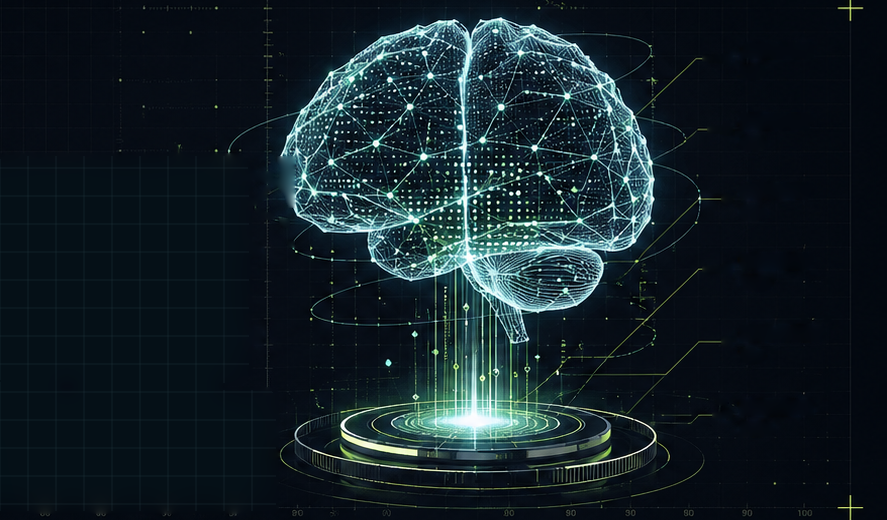
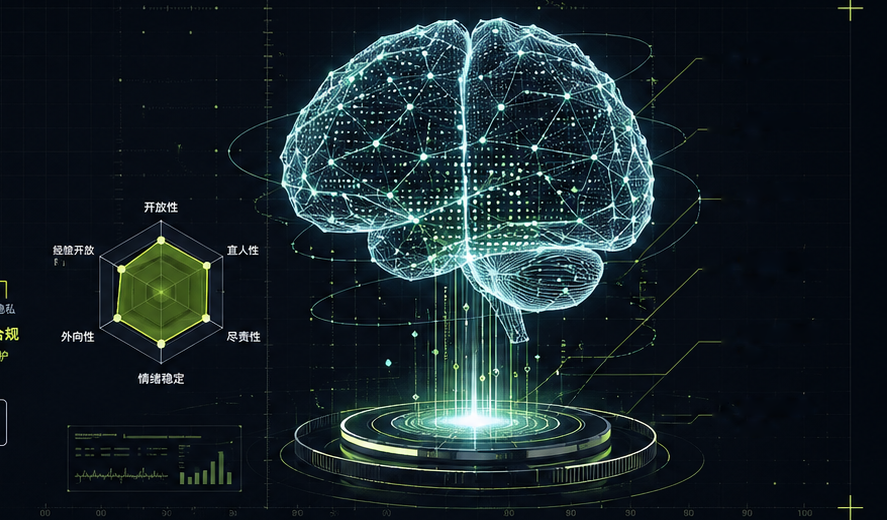
fix(ux): restore original homepage HUD left artwork

diff --git a/components/marketing/home/HeroHudArtwork.tsx b/components/marketing/home/HeroHudArtwork.tsx
@@ -43,13 +43,13 @@ export function HeroHudArtwork({ locale }: { locale: Locale }) {
       className="pointer-events-none relative ml-6 mt-[7px] hidden aspect-[887/520] w-[calc(100%+0.625rem)] self-start overflow-visible [mask-image:linear-gradient(to_bottom,transparent_0%,rgba(0,0,0,0.5)_4%,black_10%,black_88%,rgba(0,0,0,0.5)_96%,transparent_100%)] [-webkit-mask-image:linear-gradient(to_bottom,transparent_0%,rgba(0,0,0,0.5)_4%,black_10%,black_88%,rgba(0,0,0,0.5)_96%,transparent_100%)] lg:block xl:-ml-[39px] xl:mt-[calc(4.842vw-65px)] xl:w-[59.65vw]"
     >
       <Image
-        src="/images/home/hero-assessment-hud.png?v=restored-brain-rings"
+        src="/images/home/hero-assessment-hud.png?v=original-left-dom-right"
         alt=""
         fill
         priority
         unoptimized
         sizes="(min-width: 1280px) 56vw, 52vw"
-        className="object-contain object-right opacity-100 mix-blend-screen brightness-110 contrast-110 [mask-image:linear-gradient(to_right,transparent_0%,transparent_12%,rgba(0,0,0,0.34)_24%,rgba(0,0,0,0.82)_34%,black_43%,black_100%)] [-webkit-mask-image:linear-gradient(to_right,transparent_0%,transparent_12%,rgba(0,0,0,0.34)_24%,rgba(0,0,0,0.82)_34%,black_43%,black_100%)]"
+        className="object-contain object-right opacity-100 mix-blend-screen brightness-110 contrast-110 [mask-image:linear-gradient(to_right,transparent_0%,rgba(0,0,0,0.24)_5%,rgba(0,0,0,0.86)_13%,black_22%,black_100%)] [-webkit-mask-image:linear-gradient(to_right,transparent_0%,rgba(0,0,0,0.24)_5%,rgba(0,0,0,0.86)_13%,black_22%,black_100%)]"
       />
       <div className="absolute bottom-[5%] right-0 top-[4%] w-[28%] bg-[#0b1c24]/36 [mask-image:linear-gradient(to_right,transparent_0%,rgba(0,0,0,0.68)_18%,black_36%,black_100%)] [-webkit-mask-image:linear-gradient(to_right,transparent_0%,rgba(0,0,0,0.68)_18%,black_36%,black_100%)]">
         <div className="absolute inset-0 bg-[linear-gradient(rgba(86,111,126,0.2)_1px,transparent_1px),linear-gradient(90deg,rgba(86,111,126,0.18)_1px,transparent_1px)] bg-[size:28px_28px] opacity-80" />